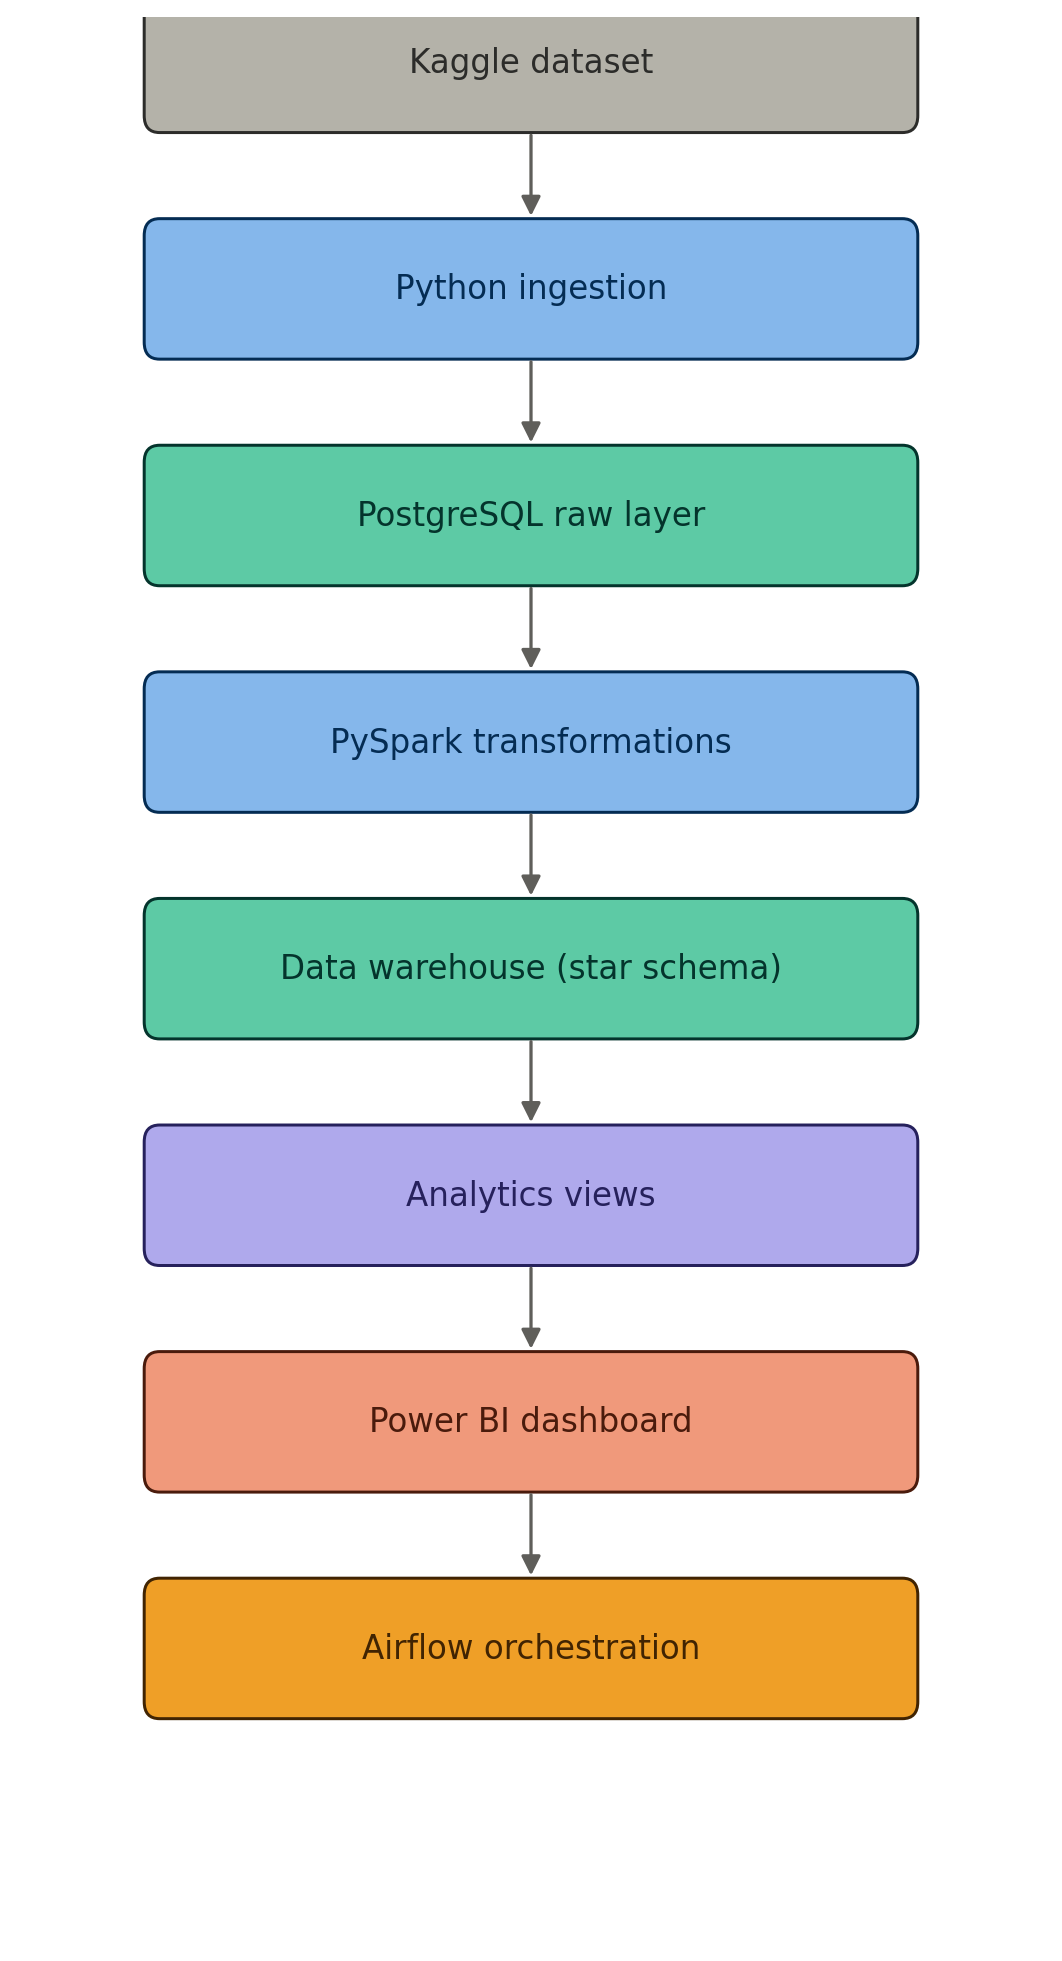
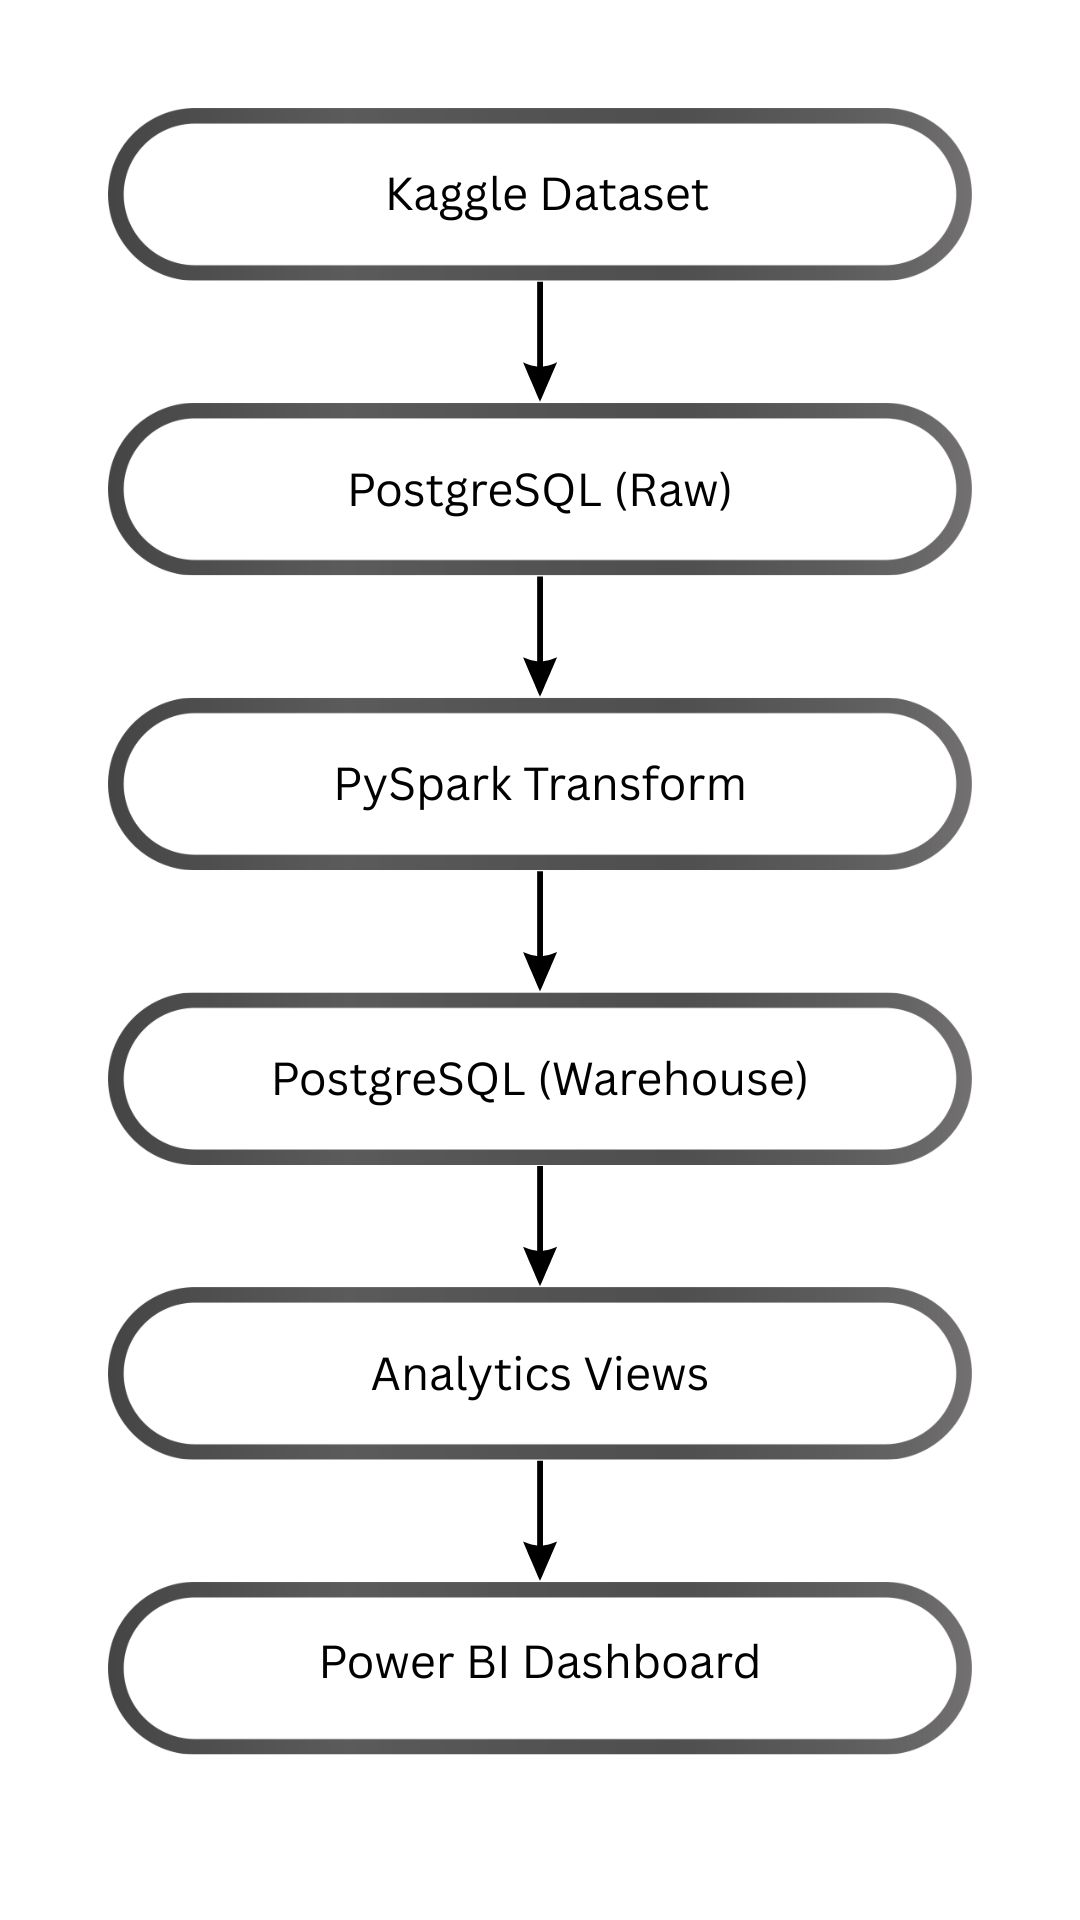
Add updated architecture_diagram and readme

diff --git a/README.md b/README.md
@@ -1,162 +1,69 @@
 # Banking Transaction Analytics Pipeline
 
-An end-to-end data pipeline that ingests a banking transactions dataset,
-loads it into PostgreSQL, transforms it with PySpark, models it into a
-star schema, and exposes analytics views for Power BI. Built to
-demonstrate core data engineering skills: ingestion, data quality checks,
-distributed transformation, dimensional modeling, and orchestration
-(6.3M+ transaction rows).
+An end-to-end data pipeline that loads a banking transactions dataset into PostgreSQL, transforms it with PySpark, models it into a star schema, and powers a Power BI dashboard. Processes 6.3M+ transaction rows.
 
 <p align="center">
-  <img src="docs/images/architecture_diagram.png" alt="Pipeline architecture" width="400">
+  <img src="docs/images/architecture_diagram.png" alt="Architecture" width="380">
 </p>
 
-## What it answers
+## Architecture
 
-- How many transactions happen, and what's the total amount moved?
-- Which customers transact the most?
-- What percentage of transactions are fraud, and which type is riskiest?
-
-Full list in [`docs/business_questions.md`](docs/business_questions.md).
-
-## Pipeline
-
-```text
-Kaggle dataset
-      |
-      v
-Create database + schemas
-      |
-      v
-Profile raw data (data quality checks)
-      |
-      v
-Load into PostgreSQL raw layer
-      |
-      v
-PySpark transformations
-      |
-      v
-Build warehouse (star schema)
-      |
-      v
-Create analytics views
-      |
-      v
-Power BI dashboard
 ```
-
-More detail in [`docs/architecture.md`](docs/architecture.md).
+Kaggle Dataset
+      |
+      v
+PostgreSQL (Raw)
+      |
+      v
+PySpark Transform
+      |
+      v
+PostgreSQL (Warehouse)
+      |
+      v
+Analytics Views
+      |
+      v
+Power BI Dashboard
+```
 
 ## Tech stack
 
-Python, PostgreSQL, PySpark, Apache Airflow (optional), Power BI, pytest.
+Python · PostgreSQL · PySpark · Apache Airflow (optional) · Power BI · pytest
 
-## Folder structure
+## Project structure
 
-```text
-banking-data-platform/
-├── settings.py               # all settings, loaded from .env
-├── run_pipeline.py           # runs the whole pipeline
-├── pipeline/                 # one file per pipeline step
-│   ├── db.py
-│   ├── step1_create_database.py
-│   ├── step2_create_schemas.py
-│   ├── step3_profile_data.py
-│   ├── step4_load_raw_data.py
-│   ├── step5_transform_data.py
-│   ├── step6_build_warehouse.py
-│   └── step7_create_analytics_views.py
-├── sql/
-│   ├── schema/                # table definitions
-│   └── analytics/              # reporting views
-├── airflow/                  # optional scheduled orchestration
-├── docs/                      # architecture, data dictionary, business questions
-├── jars/                       # Postgres JDBC driver (see jars/README.md)
+```
+├── settings.py          # config, loaded from .env
+├── run_pipeline.py       # runs the full pipeline
+├── pipeline/              # one file per step
+├── sql/                    # schema + analytics views
+├── airflow/                 # optional scheduled orchestration
+├── docs/                     # architecture & data dictionary
 ├── tests/                     # pytest tests
-├── data/
-│   ├── raw/                     # transactions.csv goes here (git-ignored)
-│   ├── processed/                # git-ignored
-│   └── reports/                  # data quality reports
-├── .env.example
-├── requirements.txt
-└── README.md
+└── data/                        # raw / processed / reports
 ```
 
 ## Setup
 
-### Requirements
-
-- Python 3.10+
-- PostgreSQL 15
-- Java 8 or 11 (for PySpark)
-
-### 1. Install dependencies
-
 ```bash
+# 1. install dependencies
 python -m venv venv
 source venv/bin/activate        # Windows: venv\Scripts\activate
 pip install -r requirements.txt
-```
 
-### 2. Configure environment variables
+# 2. configure
+cp .env.example .env            # add your Postgres password
 
-```bash
-cp .env.example .env
-# fill in your Postgres password
-```
-
-### 3. Download the Postgres JDBC driver
-
-```bash
+# 3. download the JDBC driver
 curl -L -o jars/postgresql-42.7.3.jar \
   https://jdbc.postgresql.org/download/postgresql-42.7.3.jar
-```
 
-### 4. Add the dataset
+# 4. add the dataset
+# place transactions.csv in data/raw/
 
-Download the [PaySim dataset](https://www.kaggle.com/datasets/ealaxi/paysim1)
-from Kaggle and place it at `data/raw/transactions.csv`.
-
-### 5. Run the pipeline
-
-```bash
+# 5. run everything
 python run_pipeline.py
 ```
 
-Runs all 7 steps: creates the database, creates the schemas, profiles the
-data, loads it, runs PySpark, builds the warehouse, creates analytics
-views. Safe to re-run from the start if it fails partway through.
-
-### 6. Connect Power BI
-
-Point Power BI's Postgres connector at the `analytics` schema views
-(`executive_summary`, `fraud_summary`, `customer_spend_summary`, etc.).
-
-### 7. (Optional) Run through Airflow
-
-```bash
-cd airflow
-export DB_HOST=host.docker.internal DB_PORT=5432 DB_NAME=banking_platform \
-       DB_USER=postgres DB_PASSWORD=changeme
-docker compose up
-```
-
-Airflow UI: `http://localhost:8080`. DAG: `banking_transaction_pipeline`.
-
-## Tests
-
-```bash
-pytest
-```
-
-## Possible improvements
-
-- Real-time ingestion (Kafka)
-- Cloud deployment
-- Automated data quality alerting
-- ML-based fraud scoring
-
-## License
-
-MIT -- see [LICENSE](LICENSE).
+Dataset: [PaySim synthetic fraud detection dataset](https://www.kaggle.com/datasets/ealaxi/paysim1) (Kaggle).
